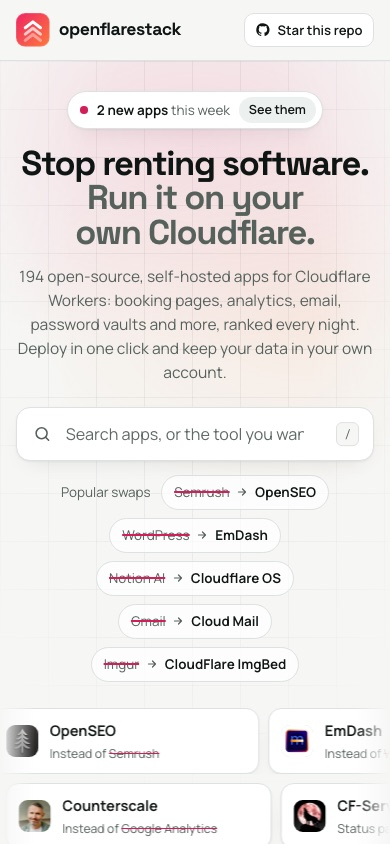
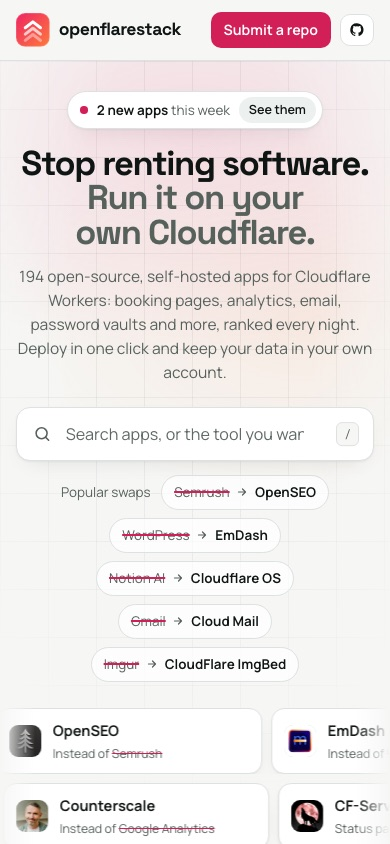
Wide Submit section, already-listed detection, phone header
- Submit your repo: requirements as a row of cards, the form on one line,
  check steps across the card; stacks cleanly on tablets and phones
- The checker and the submission bot recognise repos already in the
  catalog (also after a rename) and point to the listing instead
- Phones keep the Submit button in the header; footer categories in two
  columns

diff --git a/scripts/build-site.js b/scripts/build-site.js
@@ -312,32 +312,36 @@ function home() {
 
   <div class="band"><div class="wrap">${faqHtml('Questions people ask', HOME_FAQ)}</div></div>
 
-  <section class="band" id="submit" aria-labelledby="subh">
-    <div class="wrap submit">
-      <div>
+  <section class="band band-tight" id="submit" aria-labelledby="subh">
+    <div class="wrap">
+      <div class="submit-head">
         <div class="band-head">
           <h2 id="subh">Submit your repo</h2>
           <p>Paste a GitHub link and we check it right here, in the same order the nightly scan does. If it passes you'll see your listing before you send it.</p>
         </div>
-        <ol class="reqs">
-          <li><span class="idx">1</span><b>A public repository</b><p>Not a fork and not archived.</p></li>
-          <li><span class="idx">2</span><b>A README at the root <span class="pill pend">Required</span></b><p>It's the first thing we read. No README means no listing.</p></li>
-          <li><span class="idx">3</span><b>A Deploy to Cloudflare button, or a wrangler config</b><p>We look for the button in your README first. If it isn't there we read <code>wrangler.jsonc</code>, <code>wrangler.json</code> or <code>wrangler.toml</code> from the root and build the Deploy link for you.</p></li>
-          <li><span class="idx">4</span><b>An open-source licence</b><p>MIT, Apache, GPL and the like, so people know they're allowed to run it.</p></li>
-        </ol>
       </div>
+      <ol class="reqs">
+        <li><span class="idx">1</span><b>A public repository</b><p>Not a fork and not archived.</p></li>
+        <li><span class="idx">2</span><b>A README at the root <span class="pill pend">Required</span></b><p>It's the first thing we read. No README means no listing.</p></li>
+        <li><span class="idx">3</span><b>A Deploy to Cloudflare button, or a wrangler config</b><p>We look for the button in your README first. If it isn't there we read <code>wrangler.jsonc</code>, <code>wrangler.json</code> or <code>wrangler.toml</code> from the root and build the Deploy link for you.</p></li>
+        <li><span class="idx">4</span><b>An open-source licence</b><p>MIT, Apache, GPL and the like, so people know they're allowed to run it.</p></li>
+      </ol>
       <div class="checker">
-        <h3>Check a repository</h3>
-        <p>Nothing is submitted until you press Submit at the end.</p>
+        <div class="checker-head">
+          <h3>Check a repository</h3>
+          <p>Nothing is submitted until you press Submit at the end.</p>
+        </div>
         <form id="checkForm" novalidate>
           <div class="field">
             <label for="repoUrl">GitHub repository link</label>
             <input id="repoUrl" type="url" inputmode="url" autocomplete="off" spellcheck="false" placeholder="https://github.com/owner/repo" aria-describedby="repoErr">
             <p class="err" id="repoErr" aria-live="polite" hidden></p>
           </div>
-          <label class="confirm" for="hasReadme"><input id="hasReadme" type="checkbox"><span>My repository has a README at the root. We read it first, so the check stops without one.</span></label>
-          <p class="err" id="readmeErr" aria-live="polite" hidden></p>
-          <div class="row"><button class="btn primary" id="checkBtn" type="submit">Check repository</button></div>
+          <div class="form-side">
+            <label class="confirm" for="hasReadme"><input id="hasReadme" type="checkbox"><span>My repository has a README at the root. We read it first, so the check stops without one.</span></label>
+            <p class="err" id="readmeErr" aria-live="polite" hidden></p>
+          </div>
+          <button class="btn primary" id="checkBtn" type="submit">Check repository</button>
         </form>
         ${exButton || exConfig ? `<div class="examples"><span>Or try a listed app:</span>${[[exButton, 'Has a Deploy button'], [exConfig, 'Wrangler config only']].filter(([a]) => a).map(([a, l]) => `<button class="ex" type="button" data-ex="${esc(a.repo)}">${l}</button>`).join('')}</div>` : ''}
         <ol class="clog" id="clog"></ol>

diff --git a/site/app.js b/site/app.js
@@ -4,7 +4,7 @@
 import { esc, k, row, tiles, appDetail, avatar, ICONS } from './lib/render.js';
 import { BINDINGS } from './lib/bindings.js';
 import { STEPS, runCheck, parseRepo, apiSource } from './lib/check.js';
-import { TOP_N, submitIssueUrl, deployUrl } from './lib/config.js';
+import { TOP_N, CATALOG_REPO, submitIssueUrl, deployUrl } from './lib/config.js';
 
 const $ = (id) => document.getElementById(id);
 const lsGet = (key) => { try { return localStorage.getItem(key); } catch { return null; } };
@@ -250,15 +250,34 @@ function initChecker() {
       + '<p class="note">This opens a pre-filled GitHub issue. A bot runs the same checks on it, and the nightly scan adds your app to the list.</p>';
   }
 
+  // Already in the catalog? Matched case-insensitively, and again after the GitHub lookup in case
+  // the link used an old name for a renamed repo.
+  const listedApp = async (repo) => (await loadCatalog()).apps.find((a) => a.repo.toLowerCase() === repo.toLowerCase());
+  function showListed(a, checked) {
+    verdict.hidden = false;
+    verdict.innerHTML = `<h4><span class="pill listed">${ICONS.check}In the stack</span> ${esc(a.name)} is already listed</h4>`
+      + `<p>It’s number ${a.category_rank} in ${esc(a.category)} and ${a.rank} overall. The nightly scan keeps its stars, bindings and details up to date, so there’s nothing to submit${checked ? '' : ', and we skipped the checks'}.</p>`
+      + `<div class="preview"><div class="view-rows"><ol class="list">${row(a)}</ol></div></div>`
+      + `<div class="row"><a class="btn primary" href="/apps/${esc(a.slug)}/">See its page</a>`
+      + `<a class="btn" href="https://github.com/${CATALOG_REPO}/issues/new?title=${encodeURIComponent('Listing: ' + a.repo)}" target="_blank" rel="noopener">Something wrong with it? Tell us</a></div>`;
+  }
+
   let busy = false;
-  async function start(o, r) {
+  async function start(o, r, { demo = false } = {}) {
     if (busy) return;
     busy = true; checkBtn.disabled = true; resetSteps();
     try {
+      const known = demo ? null : await listedApp(`${o}/${r}`);
+      if (known) {
+        clog.innerHTML = ''; // no checks needed, so no step list
+        showListed(known, false);
+        return;
+      }
       const res = await runCheck(src, o, r, step);
       sourceEl.textContent = 'Checked live with GitHub’s public API.';
       sourceEl.hidden = false;
-      showVerdict(res);
+      const listed = await listedApp(`${res.o}/${res.r}`);
+      if (listed) showListed(listed, true); else showVerdict(res);
     } catch (err) {
       verdict.hidden = false;
       const limited = err && (err.status === 403 || err.status === 429);
@@ -271,9 +290,11 @@ function initChecker() {
     }
   }
 
-  form.addEventListener('submit', (e) => {
+  form.addEventListener('submit', async (e) => {
     e.preventDefault();
     const p = parseRepo(urlIn.value);
+    // A repo that's already listed needs no README tick: say so straight away.
+    if (p && await listedApp(`${p.o}/${p.r}`)) { urlErr.hidden = true; rdErr.hidden = true; urlIn.removeAttribute('aria-invalid'); start(p.o, p.r); return; }
     let ok = true;
     if (!p) { urlErr.textContent = 'That doesn’t look like a GitHub repo link. It should look like github.com/owner/repo.'; urlErr.hidden = false; urlIn.setAttribute('aria-invalid', 'true'); ok = false; }
     else { urlErr.hidden = true; urlIn.removeAttribute('aria-invalid'); }
@@ -286,7 +307,7 @@ function initChecker() {
     urlIn.value = 'https://github.com/' + b.dataset.ex;
     hasReadme.checked = true; urlErr.hidden = true; rdErr.hidden = true; urlIn.removeAttribute('aria-invalid');
     const [o, r] = b.dataset.ex.split('/');
-    start(o, r);
+    start(o, r, { demo: true }); // examples run the full check, then note the app is listed
   }));
   resetSteps();
 }

diff --git a/site/styles.css b/site/styles.css
@@ -483,3 +483,59 @@ a.open{color:inherit;text-decoration:none}
 .btn.foot-cta{margin-top:1.1rem;padding:.6rem 1rem;font-size:.92rem;color:var(--flare-ink)}
 .btn.foot-cta svg{width:.9rem;height:.9rem}
 .hero{overflow-x:clip;overflow-y:visible}
+
+/* ---------- Submit section: wide layout ---------- */
+#submit .band-head{margin-bottom:1.25rem;max-width:60rem}
+/* Requirements: a row of compact cards (4 across on laptops, 2 on tablets, 1 on phones) */
+#submit .reqs{display:grid;gap:.75rem;grid-template-columns:minmax(0,1fr)}
+@media (min-width:640px){#submit .reqs{grid-template-columns:repeat(2,minmax(0,1fr))}}
+@media (min-width:1100px){#submit .reqs{grid-template-columns:repeat(4,minmax(0,1fr))}}
+#submit .reqs li{display:block;padding:.9rem 1rem;border:1px solid var(--rule);border-radius:14px;background:var(--sheet)}
+#submit .reqs li:last-child{border-bottom:1px solid var(--rule)}
+#submit .reqs .idx{display:inline-grid;width:1.5rem;height:1.5rem;font-size:.78rem;vertical-align:middle;margin-right:.5rem}
+#submit .reqs b{display:inline;font-size:.97rem;line-height:1.35}
+#submit .reqs b .pill{margin-left:.35rem;vertical-align:middle}
+#submit .reqs p{margin-top:.45rem;font-size:.88rem;line-height:1.5}
+/* Checker: one wide card */
+#submit .checker{margin-top:1rem;border-radius:18px}
+.checker-head{display:flex;flex-wrap:wrap;align-items:baseline;gap:.25rem 1rem}
+.checker-head p{color:var(--quiet);font-size:.92rem}
+#checkForm{display:grid;gap:.9rem;margin-top:1rem;align-items:end}
+#checkForm .field{margin-top:0}
+#checkForm .confirm{margin-top:0}
+#checkForm .btn{justify-content:center;height:3.1rem;box-sizing:border-box}
+@media (min-width:900px){
+  #checkForm{grid-template-columns:minmax(0,1.25fr) minmax(0,1fr) auto}
+  #checkForm .form-side{align-self:center;padding-top:1.6rem}
+}
+@media (max-width:899px){#checkForm .btn{width:100%}}
+/* Check steps: across the card on wide screens, a list on phones */
+@media (min-width:900px){
+  #submit .clog{grid-template-columns:repeat(5,minmax(0,1fr));gap:0;border:1px solid var(--rule);border-radius:14px;overflow:hidden}
+  #submit .clog li{grid-template-columns:1.5rem minmax(0,1fr);align-content:start;padding:.85rem .9rem;border-top:0}
+  #submit .clog li+li{border-left:1px solid var(--rule)}
+  #submit .clog b{font-size:.9rem;line-height:1.3}
+  #submit .clog .d{grid-column:1/-1;margin-top:.35rem;font-size:.84rem}
+}
+/* Listing preview uses the full catalog row on wide screens */
+@media (min-width:1100px){
+  #submit .preview .app{grid-template-columns:3rem minmax(0,2.2fr) minmax(0,1fr) minmax(0,1.15fr) 5.6rem auto;grid-template-areas:"rank main swap tiles meta act";align-items:center}
+  #submit .preview .meta{grid-auto-flow:row;justify-content:end;text-align:right}
+}
+.verdict .row .btn+.btn{margin-left:0}
+.pill.listed{background:var(--ok-soft);color:var(--ok)}
+
+/* Phones: keep "Submit a repo" in the header; the star button shrinks to its icon */
+@media (max-width:720px){
+  .nav{display:flex;margin-left:auto;gap:0}
+  .nav a:not(.nav-cta){display:none}
+  .nav+.gh-star{margin-left:0}
+  .gh-star span{position:absolute;width:1px;height:1px;overflow:hidden;clip:rect(0 0 0 0);white-space:nowrap}
+  .gh-star{padding:.45rem .55rem}
+  .top .wrap{gap:.6rem}
+}
+@media (max-width:380px){.nav a.nav-cta{padding:.4rem .65rem;font-size:.86rem}.wm{font-size:1.05rem}}
+
+/* Footer: categories in two columns */
+.foot nav[aria-label="Categories"] ul{grid-template-columns:repeat(2,minmax(0,1fr));column-gap:1.25rem}
+@media (min-width:900px){.foot-grid{grid-template-columns:minmax(0,1.2fr) minmax(0,1.5fr) minmax(0,1fr) minmax(0,.9fr)}}

diff --git a/scripts/submission.js b/scripts/submission.js
@@ -5,6 +5,7 @@
 import { readFileSync, writeFileSync } from 'node:fs';
 import { runCheck, apiSource, parseRepo, STEPS } from '../lib/check.js';
 import { readJson, writeJson, today, keyOf } from './lib/store.js';
+import { SITE_URL } from '../lib/config.js';
 
 const TOKEN = process.env.GITHUB_TOKEN;
 const REPO = process.env.GITHUB_REPOSITORY;
@@ -31,6 +32,16 @@ if (!parsed) {
   process.exit(0);
 }
 
+// Already in the catalog? Then there's nothing to do but point at its page.
+const listed = (repo) => (readJson('catalog.json', { apps: [] }).apps || []).find((a) => keyOf(a.repo) === keyOf(repo));
+async function closeAsListed(a) {
+  await comment(`**${a.repo}** is already in the stack: it's number ${a.category_rank} in ${a.category} and ${a.rank} overall.\n\n${SITE_URL}/apps/${a.slug}/\n\nThe nightly scan keeps its stars, bindings and details up to date, so there's nothing to submit. If something about the listing is wrong, say so here and a maintainer will take a look.`);
+  await gh('POST', `/issues/${issue.number}/labels`, { labels: ['accepted'] }).catch(() => {});
+  await gh('PATCH', `/issues/${issue.number}`, { state: 'closed', state_reason: 'completed' });
+}
+const known = listed(`${parsed.o}/${parsed.r}`);
+if (known) { await closeAsListed(known); process.exit(0); }
+
 const results = new Map();
 let res;
 try {
@@ -44,6 +55,9 @@ const ICON = { ok: '✅', warn: '⚠', fail: '❌', skip: '➖' };
 const table = ['| Step | Result |', '|---|---|',
   ...STEPS.map(([id, label]) => { const [s, m] = results.get(id) || ['skip', 'Skipped']; return `| ${ICON[s]} ${label} | ${m.replace(/\|/g, '\\|')} |`; })].join('\n');
 const repo = `${res.o}/${res.r}`;
+// The link may have used an old name for a renamed repo.
+const renamed = listed(repo);
+if (renamed) { await closeAsListed(renamed); process.exit(0); }
 
 if (!res.ok) {
   await comment(`Thanks for submitting **${repo}**. It isn’t ready yet:\n\n${table}\n\nFix the step marked ❌, then edit this issue (any edit works) and the check runs again.`);
